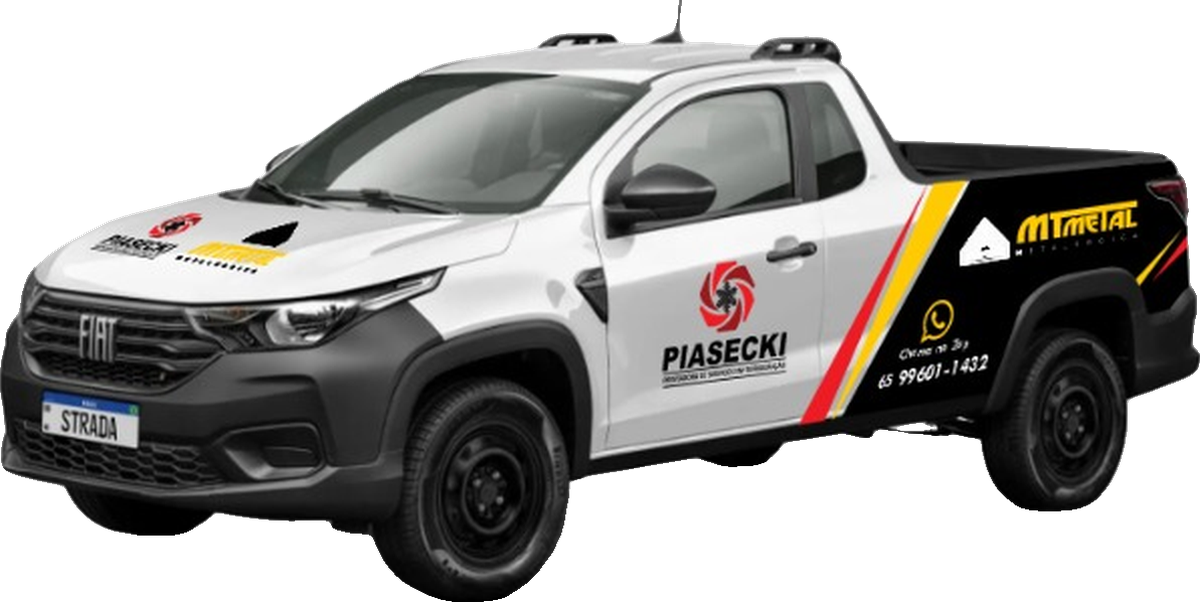
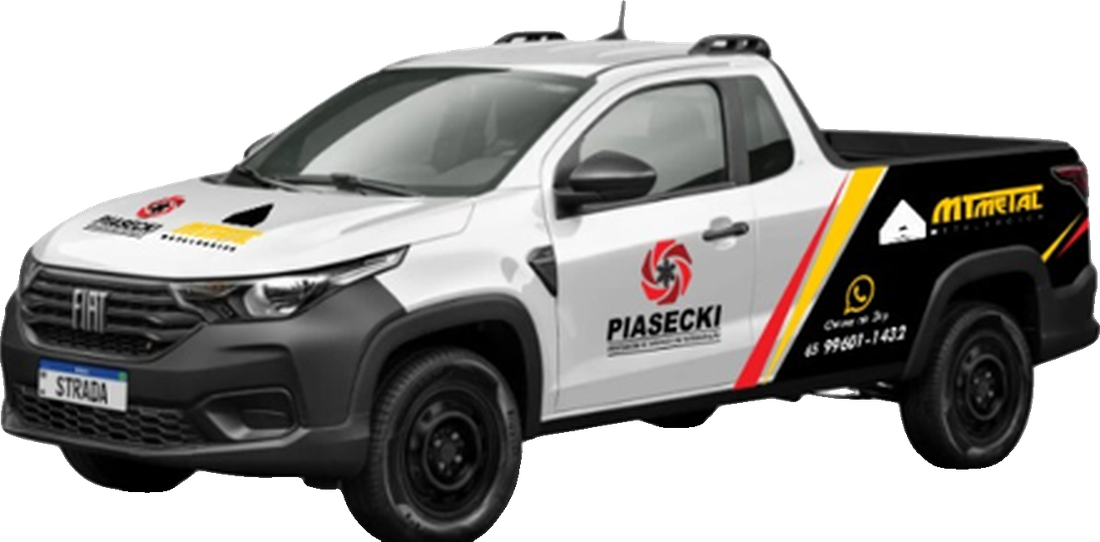
Usa a foto do carro enviada pelo cliente, sem fundo
Claude-Session: https://claude.ai/code/session_018EKGfwann1hV6Hf3XSq7fW

diff --git a/index.html b/index.html
@@ -6,7 +6,7 @@
 <figure class="cold-room-showcase"><picture><source media="(max-width: 760px)" srcset="assets/camara-abastecida-640.webp" type="image/webp"><source srcset="assets/camara-abastecida-1400.webp" type="image/webp"><img src="assets/camara-abastecida.jpeg" width="2048" height="2048" alt="Cena ilustrativa de câmara fria com alimentos armazenados" loading="lazy"></picture><figcaption class="wrap"><div><p class="eyebrow light">CENA ILUSTRATIVA</p><h2>Conservação que<br><em>acompanha a rotina.</em></h2></div><p>Referência visual para operações que precisam de armazenamento refrigerado.</p></figcaption></figure>
 <section class="solutions" id="solucoes"><div class="wrap solution-grid"><div class="product-visual"><p class="eyebrow">ENGENHARIA DO FRIO</p><img src="assets/camara-fria.jpg" width="500" height="313" alt="Imagem ilustrativa de câmara fria em corte, com painéis isolantes e circulação de ar" loading="lazy"><div class="image-caption"><span>CÂMARAS FRIGORÍFICAS</span><span>Imagem ilustrativa</span></div></div><div class="solution-copy"><p class="eyebrow">SOLUÇÕES PARA SUA OPERAÇÃO</p><h2>Por dentro,<br>conservação.<br>Por fora, <em>confiança.</em></h2><p>Cada produto tem uma necessidade. Cada operação, uma rotina. A escolha e o cuidado com a câmara fria devem considerar as duas.</p><ul><li>Instalações para resfriados e congelados</li><li>Avaliação do espaço e da aplicação</li><li>Atenção ao isolamento e à refrigeração</li></ul><a class="text-link dark" href="#contato">Converse sobre seu projeto <span>↗</span></a></div></div><div class="wrap industries"><span>ATENDIMENTO NA REGIÃO METROPOLITANA DE CUIABÁ</span><p>Mercados <i> / </i> Açougues <i> / </i> Restaurantes <i> / </i> Distribuidoras</p></div></section>
 <section class="process section wrap" id="processo"><div class="section-heading"><div><p class="eyebrow">DO PRIMEIRO CONTATO À SOLUÇÃO</p><h2>Entender. Resolver.<br><em>Cuidar.</em></h2></div><p>Um caminho claro para você saber o que sua câmara fria precisa e decidir o próximo passo.</p></div><ol class="steps"><li><span>01</span><h3>Conte o que precisa</h3><p>Explique o serviço, a localização e o que está acontecendo com o equipamento.</p></li><li><span>02</span><h3>Avaliação técnica</h3><p>As condições do sistema e do local orientam o diagnóstico e o escopo do serviço.</p></li><li><span>03</span><h3>Orçamento e execução</h3><p>Com os detalhes alinhados, o serviço segue conforme o que foi combinado.</p></li></ol></section>
-<section class="fleet section wrap" id="atendimento"><div class="fleet-copy"><p class="eyebrow">ATENDIMENTO NO LOCAL</p><h2>A Piasecki vai<br>até <em>você.</em></h2><p>Nossa equipe chega com o veículo da empresa, identificado e equipado, para instalar, revisar ou consertar a câmara fria onde ela está.</p><a class="text-link dark" href="#contato">Agendar uma visita <span>↗</span></a></div><figure class="fleet-photo"><picture><source srcset="assets/carro-piasecki.webp" type="image/webp"><img src="assets/carro-piasecki.png" width="1200" height="602" alt="Picape Fiat Strada adesivada com as logos da Piasecki e da MT Metal e o WhatsApp 65 99601-1432" loading="lazy"></picture></figure></section>
+<section class="fleet section wrap" id="atendimento"><div class="fleet-copy"><p class="eyebrow">ATENDIMENTO NO LOCAL</p><h2>A Piasecki vai<br>até <em>você.</em></h2><p>Nossa equipe chega com o veículo da empresa, identificado e equipado, para instalar, revisar ou consertar a câmara fria onde ela está.</p><a class="text-link dark" href="#contato">Agendar uma visita <span>↗</span></a></div><figure class="fleet-photo"><picture><source srcset="assets/carro-piasecki.webp?v=4" type="image/webp"><img src="assets/carro-piasecki.png?v=4" width="1100" height="542" alt="Picape Fiat Strada adesivada com as logos da Piasecki e da MT Metal e o WhatsApp 65 99601-1432" loading="lazy"></picture></figure></section>
 <section class="contact" id="contato"><div class="wrap contact-grid"><div><p class="eyebrow light">ATENDIMENTO NA GRANDE CUIABÁ</p><h2><span>Seu próximo passo</span><span>para o <em>frio ideal.</em></span></h2><p>Instalação nova ou uma câmara precisando de atenção?<br>Fale diretamente com a Piasecki pelo WhatsApp.</p><a class="contact-phone" href="https://wa.me/5565996011432" target="_blank" rel="noopener" aria-label="Conversar com a Piasecki pelo WhatsApp no número +55 65 99601-1432">+55 (65) 99601-1432 <span>↗</span></a></div><div class="contact-box"><h3>Qual serviço você precisa?</h3><label class="sr-only" for="service">Serviço desejado</label><select id="service"><option>Instalação</option><option>Manutenção</option><option>Conserto</option></select><a class="button primary" id="whatsapp" href="https://wa.me/5565996011432" target="_blank" rel="noopener">Pedir orçamento no WhatsApp <span>↗</span></a><p class="setup-note">Atendimento na região metropolitana de Cuiabá.</p></div></div></section></main><a class="mobile-whatsapp" id="mobile-whatsapp" href="https://wa.me/5565996011432" target="_blank" rel="noopener" aria-label="Pedir orçamento pelo WhatsApp">WhatsApp <span>↗</span></a>
 <footer><div class="wrap footer-top"><a class="brand" href="#inicio" aria-label="Piasecki, voltar ao início"><img class="brand-logo" src="assets/logo-piasecki-branco.svg" width="127" height="89" alt="Piasecki, prestadora de serviços em refrigeração"></a><p>Cuidado com o frio.<br>Compromisso com o seu negócio.</p><div class="footer-contact"><a href="https://wa.me/5565996011432" target="_blank" rel="noopener">WhatsApp: +55 (65) 99601-1432</a><span>Região metropolitana de Cuiabá</span></div><a href="#inicio">Voltar ao topo ↑</a></div><div class="wrap footer-bottom"><span>© <span id="year">2026</span> Piasecki. Todos os direitos reservados.</span><span>Proposta visual · Imagens ilustrativas</span></div></footer>
 <script src="https://cdn.jsdelivr.net/npm/gsap@3.12.5/dist/gsap.min.js"></script><script src="https://cdn.jsdelivr.net/npm/gsap@3.12.5/dist/ScrollTrigger.min.js"></script><script src="app.js?v=3"></script></body></html>
